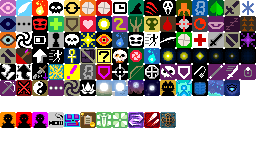
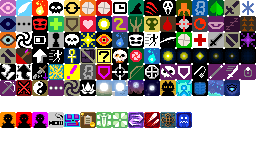
添加反击时刻的Buff图标

Changed region(s): [[0.6875, 0.6875, 0.75, 0.8125]]

diff --git a/core/src/main/java/com/shatteredpixel/shatteredpixeldungeon/ui/BuffIndicator.java b/core/src/main/java/com/shatteredpixel/shatteredpixeldungeon/ui/BuffIndicator.java
@@ -174,6 +174,8 @@ public class BuffIndicator extends Component {
 
 	public static final int SLICE_BLESS = 122;
 
+	public static final int GHOST_SCARY = 123;
+
 
     public static final int SIZE_SMALL = 7;
     public static final int SIZE_LARGE = 16;

diff --git a/core/src/main/java/com/shatteredpixel/shatteredpixeldungeon/items/quest/hollow/PacManQuest.java b/core/src/main/java/com/shatteredpixel/shatteredpixeldungeon/items/quest/hollow/PacManQuest.java
@@ -195,7 +195,7 @@ public class PacManQuest extends Item {
 
         @Override
         public int icon() {
-            return BuffIndicator.CHALLENGE;
+            return BuffIndicator.GHOST_SCARY;
         }
 
         @Override
